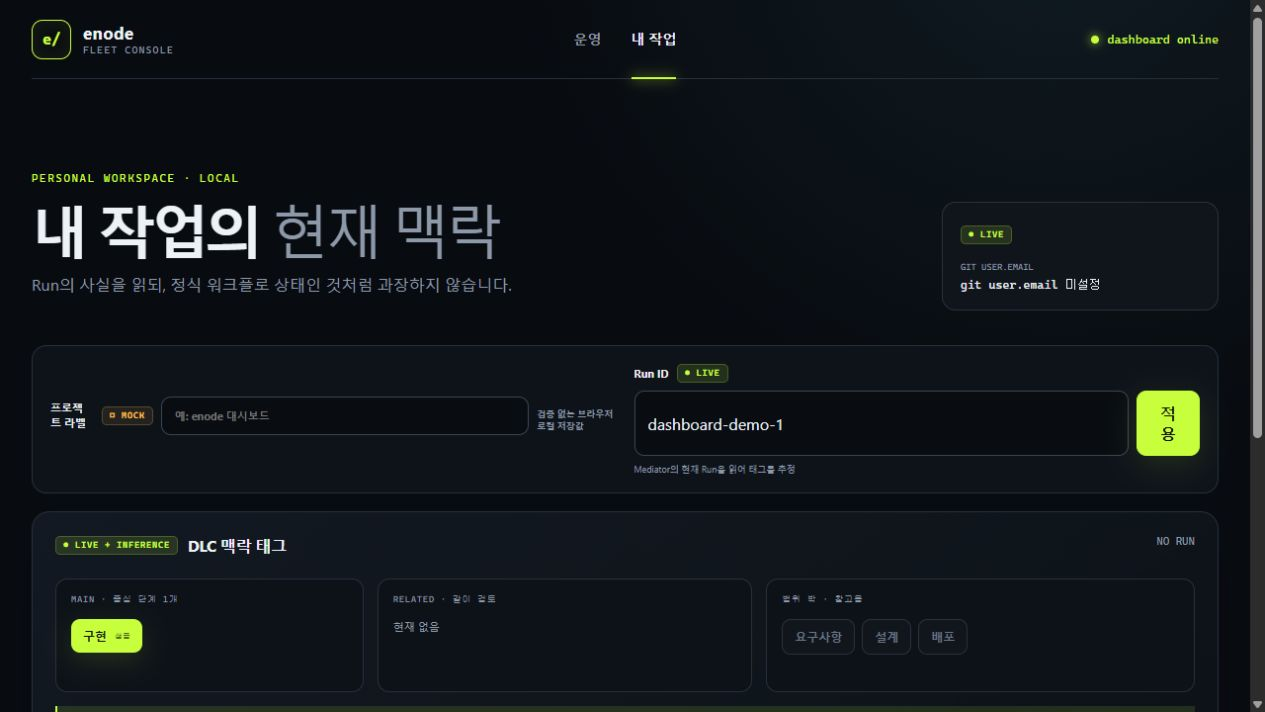
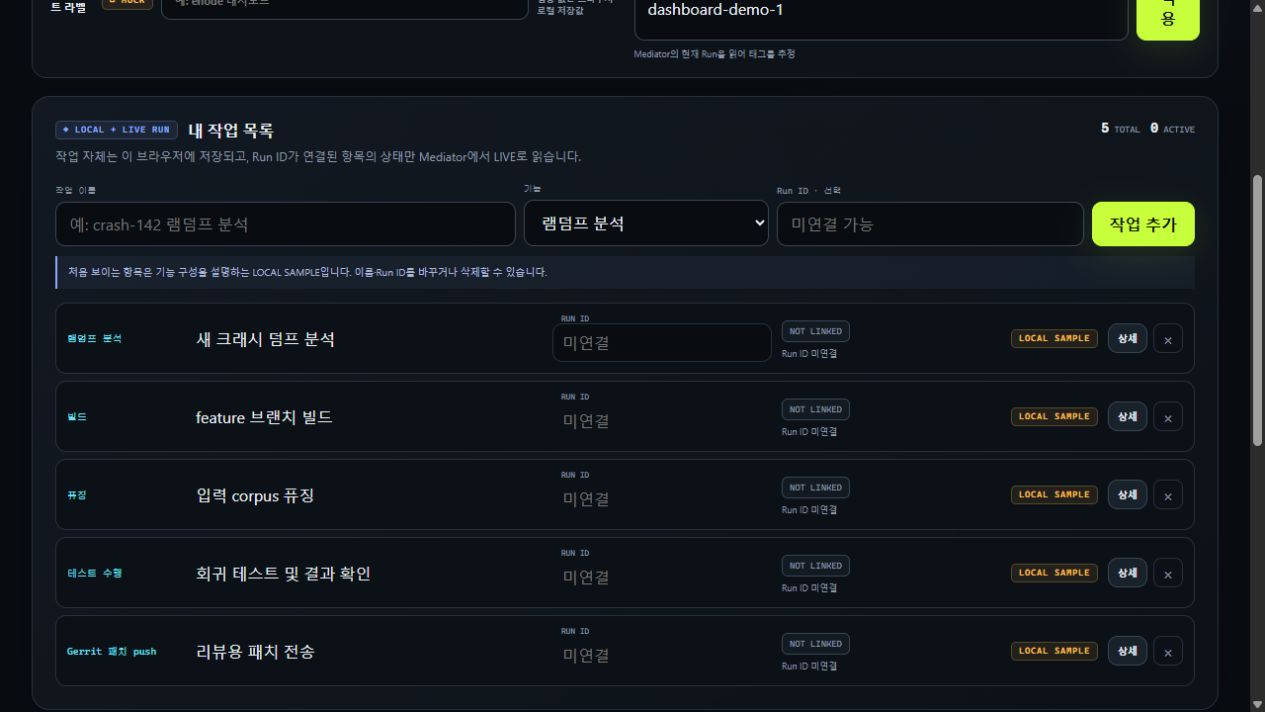
Refresh running enode and work list screenshots

diff --git a/enode-dashboard/screenshots/README.md b/enode-dashboard/screenshots/README.md
@@ -2,7 +2,7 @@
 
 두 이미지는 2026-08-26 로컬 브라우저 검증 중 캡처했습니다.
 
-- `operations-dashboard.png`: LIVE/MOCK 범례, 실제 PC 셋업 점검, Mediator 연결 실패 상태가 보이는 운영 화면
-- `my-work.png`: main/related/범위 밖 DLC 태그 모델과 Run ID 입력이 보이는 개인 화면
+- `operations-dashboard.png`: Running enodes LIVE 목록과 개발 기능 카탈로그가 보이는 운영 화면
+- `my-work.png`: 작업별 기능·Run ID·상태·데이터 출처가 보이는 개인 작업 목록
 
 캡처 당시 WSL Postgres와 Mediator는 실행 중이 아니므로 LIVE 패널은 그 사실을 숨기지 않고 연결 실패 또는 미확인 상태로 표시합니다.
